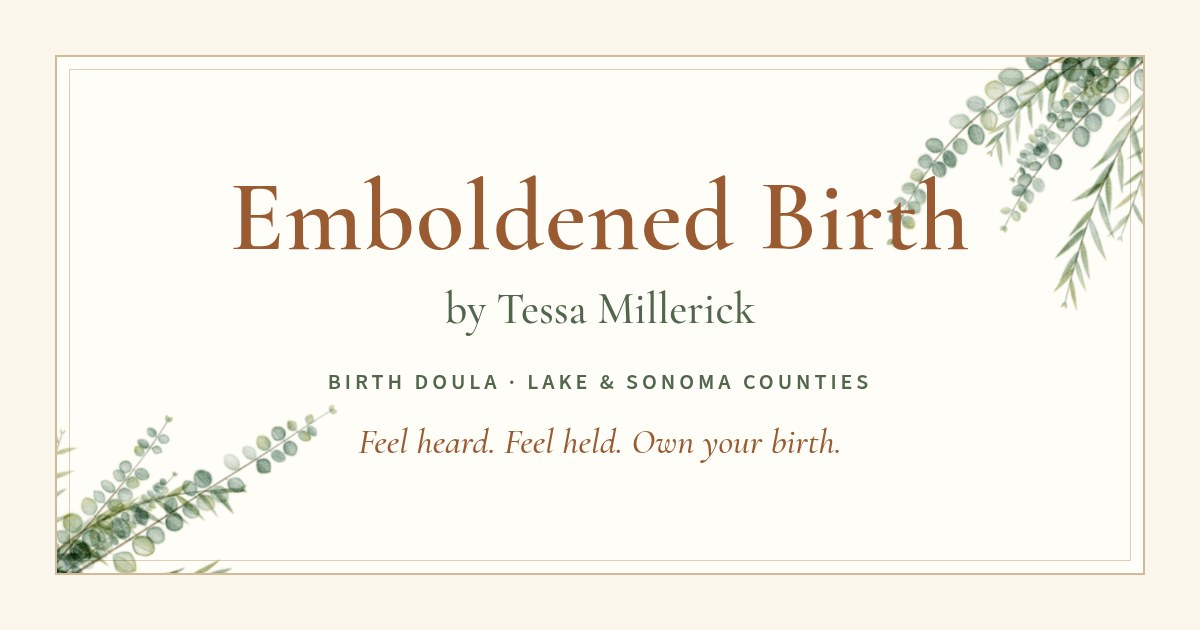
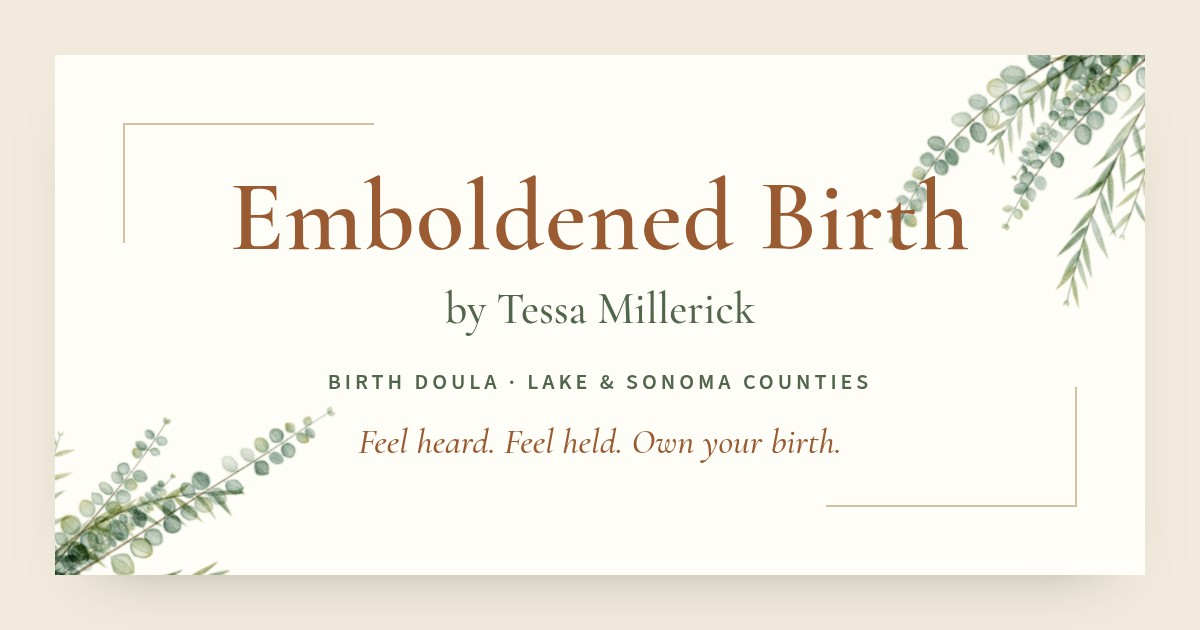
Give the closing card and share image the card's open corners
The business card's front now has an open frame: two brass corners on the
corners the eucalyptus leaves free, in place of a full rule. The website's
closing card and the social preview image follow it.

- .cta__card: no outer border or inner rule; two 1px brass corners (top
  left, bottom right). Wide screens keep the card's proportions (set in by
  6.2% of the card's width, arms 23% of each side); below 900px the upright
  arms stay in the space above and below the text. Print keeps the corners
  near the edge.
- og-image.jpg: the same picture with the open frame, on the closing card's
  oat ground. New tools/make-og-image.py rebuilds it (headless Chrome and
  Pillow), so it no longer depends on a one-off file.
- README: design notes and files table updated.

Checked: corner-to-text clearance on Home, About and Services at 22 widths
(closest 27px, none touching); the refresh plan's layout check (132
page/width combinations, no issues) and wording check (no changes); print
preview of Home.

diff --git a/assets/css/styles.css b/assets/css/styles.css
@@ -1181,18 +1181,41 @@ a.contact-method:hover .contact-method__go::after {
   max-width: 58rem;
   margin-inline: auto;
   padding: clamp(4rem, 9vw, 6.5rem) clamp(1.5rem, 9vw, 7.5rem);
-  border: 1px solid var(--rule);
   background: var(--paper-card);
   box-shadow: 0 30px 60px -45px rgba(58, 66, 53, 0.5);
   text-align: center;
 }
 
-.cta__card::before {
+/* The business card's open frame: two brass corners on the corners the
+   eucalyptus leaves free (top left, bottom right) instead of a full rule.
+   Same proportions as the card: set in from the edges by 6.2% of the card's
+   width (percentage margins are measured from the width, even top and
+   bottom), each arm 23% of the card's width or height. */
+.cta__card::before,
+.cta__card::after {
+  --corner-inset: clamp(1.25rem, 6.2%, 3.5rem);
   position: absolute;
-  inset: 0.6rem;
-  border: 1px solid var(--rule-inner);
+  width: clamp(4.5rem, 23%, 14rem);
+  height: clamp(3rem, 23%, 8.5rem);
+  border: 0 solid var(--rule);
   content: "";
   pointer-events: none;
+}
+
+.cta__card::before {
+  top: 0;
+  left: 0;
+  margin: var(--corner-inset) 0 0 var(--corner-inset);
+  border-top-width: 1px;
+  border-left-width: 1px;
+}
+
+.cta__card::after {
+  right: 0;
+  bottom: 0;
+  margin: 0 var(--corner-inset) var(--corner-inset) 0;
+  border-right-width: 1px;
+  border-bottom-width: 1px;
 }
 
 .cta__art {
@@ -1635,6 +1658,14 @@ a.contact-method:hover .contact-method__go::after {
     padding-bottom: calc(var(--art-bl) * 0.62 + 1rem);
   }
 
+  /* The text runs nearly edge to edge here, so the corners keep to the
+     space above and below it: each upright arm stops 1rem short of the text. */
+  .cta__card::before,
+  .cta__card::after {
+    --corner-inset: 1.25rem;
+    height: calc(min(var(--art), var(--art-bl) * 0.62) - 1.25rem);
+  }
+
   .cta__art--bl {
     width: var(--art-bl);
   }
@@ -1798,6 +1829,12 @@ a.contact-method:hover .contact-method__go::after {
   .cta__card {
     padding-block: 2rem;
     box-shadow: none;
+  }
+
+  /* Paper keeps the corners close to the edge, clear of the shorter padding. */
+  .cta__card::before,
+  .cta__card::after {
+    --corner-inset: 0.6rem;
   }
 
   a,

diff --git a/tools/make-og-image.py b/tools/make-og-image.py
@@ -1,0 +1,76 @@
+#!/usr/bin/env python3
+"""Rebuild the social preview image, assets/img/og-image.jpg (1200 x 630).
+
+    python3 tools/make-og-image.py
+
+The picture echoes the business card's front and the site's closing card: the
+wordmark on an ivory card with the open brass frame (two corners where the
+eucalyptus leaves room), on the closing card's oat ground. It is laid out as a
+small web page in the site's own fonts and corner paintings, photographed with
+headless Chrome (google-chrome-stable) and saved as a JPEG with Pillow.
+"""
+import subprocess
+import tempfile
+from pathlib import Path
+
+from PIL import Image
+
+ROOT = Path(__file__).resolve().parent.parent
+OUT = ROOT / "assets" / "img" / "og-image.jpg"
+CHROME = "google-chrome-stable"
+SIZE = (1200, 630)
+
+# The frame follows the business card: corners set in by 6.2% of the card's
+# width (68 of 1090 px), each arm 23% of the card's width or height.
+PAGE = """<!doctype html>
+<html><head><meta charset="utf-8"><style>
+@font-face { font-family: "Cormorant Garamond"; src: url("ROOT/assets/fonts/cormorant-garamond-latin.woff2") format("woff2"); font-weight: 300 700; }
+@font-face { font-family: "Cormorant Garamond"; src: url("ROOT/assets/fonts/cormorant-garamond-italic-latin.woff2") format("woff2"); font-weight: 300 700; font-style: italic; }
+@font-face { font-family: "Source Sans 3"; src: url("ROOT/assets/fonts/source-sans-3-latin.woff2") format("woff2"); font-weight: 400 700; }
+html, body { margin: 0; width: 1200px; height: 630px; overflow: hidden; }
+body { display: grid; place-items: center; background: #f2ebdd; font-family: "Source Sans 3", sans-serif; }
+.card { position: relative; overflow: hidden; display: grid; place-items: center; width: 1090px; height: 520px;
+  background: #fffdf8; box-shadow: 0 30px 60px -45px rgba(58, 66, 53, 0.5); text-align: center; }
+.card::before, .card::after { position: absolute; width: 251px; height: 120px; box-sizing: border-box;
+  border: 0 solid rgba(176, 141, 87, 0.55); content: ""; }
+.card::before { top: 68px; left: 68px; border-top-width: 2px; border-left-width: 2px; }
+.card::after { right: 68px; bottom: 68px; border-right-width: 2px; border-bottom-width: 2px; }
+.tr { position: absolute; top: 0; right: 0; width: 262px; }
+.bl { position: absolute; bottom: 0; left: 0; width: 286px; }
+.inner { position: relative; }
+.name { color: #9a5b33; font-family: "Cormorant Garamond", serif; font-size: 100px; font-weight: 600; line-height: 1; letter-spacing: 0.01em; }
+.by { margin-top: 14px; color: #52664d; font-family: "Cormorant Garamond", serif; font-size: 44px; font-weight: 500; }
+.role { margin-top: 30px; color: #52664d; font-size: 22px; font-weight: 600; letter-spacing: 0.18em; text-transform: uppercase; }
+.tag { margin-top: 22px; color: #9a5b33; font-family: "Cormorant Garamond", serif; font-size: 36px; font-style: italic; font-weight: 500; }
+</style></head><body><div class="card">
+<img class="tr" src="ROOT/assets/img/botanical-corner-tr.webp" alt="">
+<img class="bl" src="ROOT/assets/img/botanical-corner-bl.webp" alt="">
+<div class="inner">
+<div class="name">Emboldened Birth</div>
+<div class="by">by Tessa Millerick</div>
+<div class="role">Birth doula · Lake &amp; Sonoma Counties</div>
+<div class="tag">Feel heard. Feel held. Own your birth.</div>
+</div></div></body></html>
+"""
+
+
+def main():
+    with tempfile.TemporaryDirectory() as tmp:
+        tmp = Path(tmp)
+        page = tmp / "og-image.html"
+        page.write_text(PAGE.replace("ROOT", ROOT.as_uri()), encoding="utf-8")
+        shot = tmp / "og-image.png"
+        # Headless Chrome keeps part of the window's height for a toolbar it
+        # never draws, so use a taller window and keep the top 630 px.
+        subprocess.run([CHROME, "--headless=new", "--disable-gpu", "--hide-scrollbars", "--no-first-run",
+                        "--no-default-browser-check", f"--user-data-dir={tmp / 'profile'}",
+                        "--force-device-scale-factor=1", f"--window-size={SIZE[0]},{SIZE[1] + 300}",
+                        "--virtual-time-budget=6000", f"--screenshot={shot}", page.as_uri()],
+                       check=True, capture_output=True)
+        image = Image.open(shot).convert("RGB").crop((0, 0, *SIZE))
+        image.save(OUT, quality=90, optimize=True, progressive=True)
+    print(OUT)
+
+
+if __name__ == "__main__":
+    main()

diff --git a/README.md b/README.md
@@ -38,6 +38,7 @@ Then open <http://localhost:8000>. Stop the server with `Ctrl+C`.
 | `assets/fonts/` | Self-hosted WOFF2 fonts + OFL licenses |
 | `assets/img/` | Original watercolor botanicals (`botanical-*.webp`, plus larger `botanical-corner-tr-lg.webp` and `botanical-corner-bl-lg.webp` for wide screens), favicon, social preview image (`og-image.jpg`) |
 | `tools/generate-botanicals.py` | Paints the botanical artwork (see Design notes) |
+| `tools/make-og-image.py` | Rebuilds the social preview image, `og-image.jpg` (see Design notes) |
 | `robots.txt` | Preview-only block on search engines |
 | `.nojekyll` | Tells GitHub Pages to serve the files as-is |
 
@@ -87,7 +88,7 @@ The design follows the business card and the visual-direction notes in the priva
 - **Top bar.** A thin deep green strip on every page: "Free first consultation" (a link to Contact) and the service area, which is hidden on narrow phones.
 - **Header.** Stays at the top of the screen from 1080 px wide, with a "Book a free consultation" button (not on the Contact page). Below that it scrolls away.
 - **Contact bar.** On phones and tablets (below 1080 px), Home, About and Services have a bar at the bottom of the screen with Email, Text and Call. It slides in once the visitor starts scrolling; where a browser cannot do that, or the visitor prefers reduced motion, it is simply always there. Pages that use it have `<body class="has-contact-bar">`.
-- **One framed moment per page.** The business card's double rule frames only the closing card near the foot of Home, About and Services (`.cta__card`). Everything else is open, with single rules at most.
+- **One framed moment per page.** The closing card near the foot of Home, About and Services (`.cta__card`) carries the business card's open frame: two brass corners where the eucalyptus leaves room (top left and bottom right), with no full border. On wide screens they keep the card's proportions; on narrow screens, where the text runs nearly edge to edge, they stay in the space above and below it. Everything else is open, with single rules at most.
 - **The arch.** The portrait frame on Home and About is an arch (4:5, rounded top). A photo fills it edge to edge.
 - **Motion is CSS only:** a gentle rise as blocks scroll into view (`reveal`), page cross-fades, and sliding FAQ answers. All of it is switched off for visitors who ask for reduced motion.
 
@@ -106,5 +107,7 @@ python3 tools/generate-botanicals.py --scale 1.8 --suffix=-lg --only botanical-c
 Write `--suffix=-lg` with the equals sign; with a space, the leading hyphen is read as another option. Phones still load the smaller corners through `srcset`.
 
 It needs Python 3 with numpy, Pillow (with WebP), and pycairo. Change a seed or a composition in the script to paint new variations.
+
+The social preview image, `assets/img/og-image.jpg` (1200 × 630), shows the business card's front, open frame included, on the closing card's oat ground. `python3 tools/make-og-image.py` rebuilds it with headless Chrome (`google-chrome-stable`) and Pillow. Run it again after changing the wordmark, the colors or the corner paintings.
 
 The voice stays editorial and understated: generous white space and no exclamation points. It borrows the *feel* of a magazine like Garden & Gun without copying any logo, type lockup, or trade dress.
